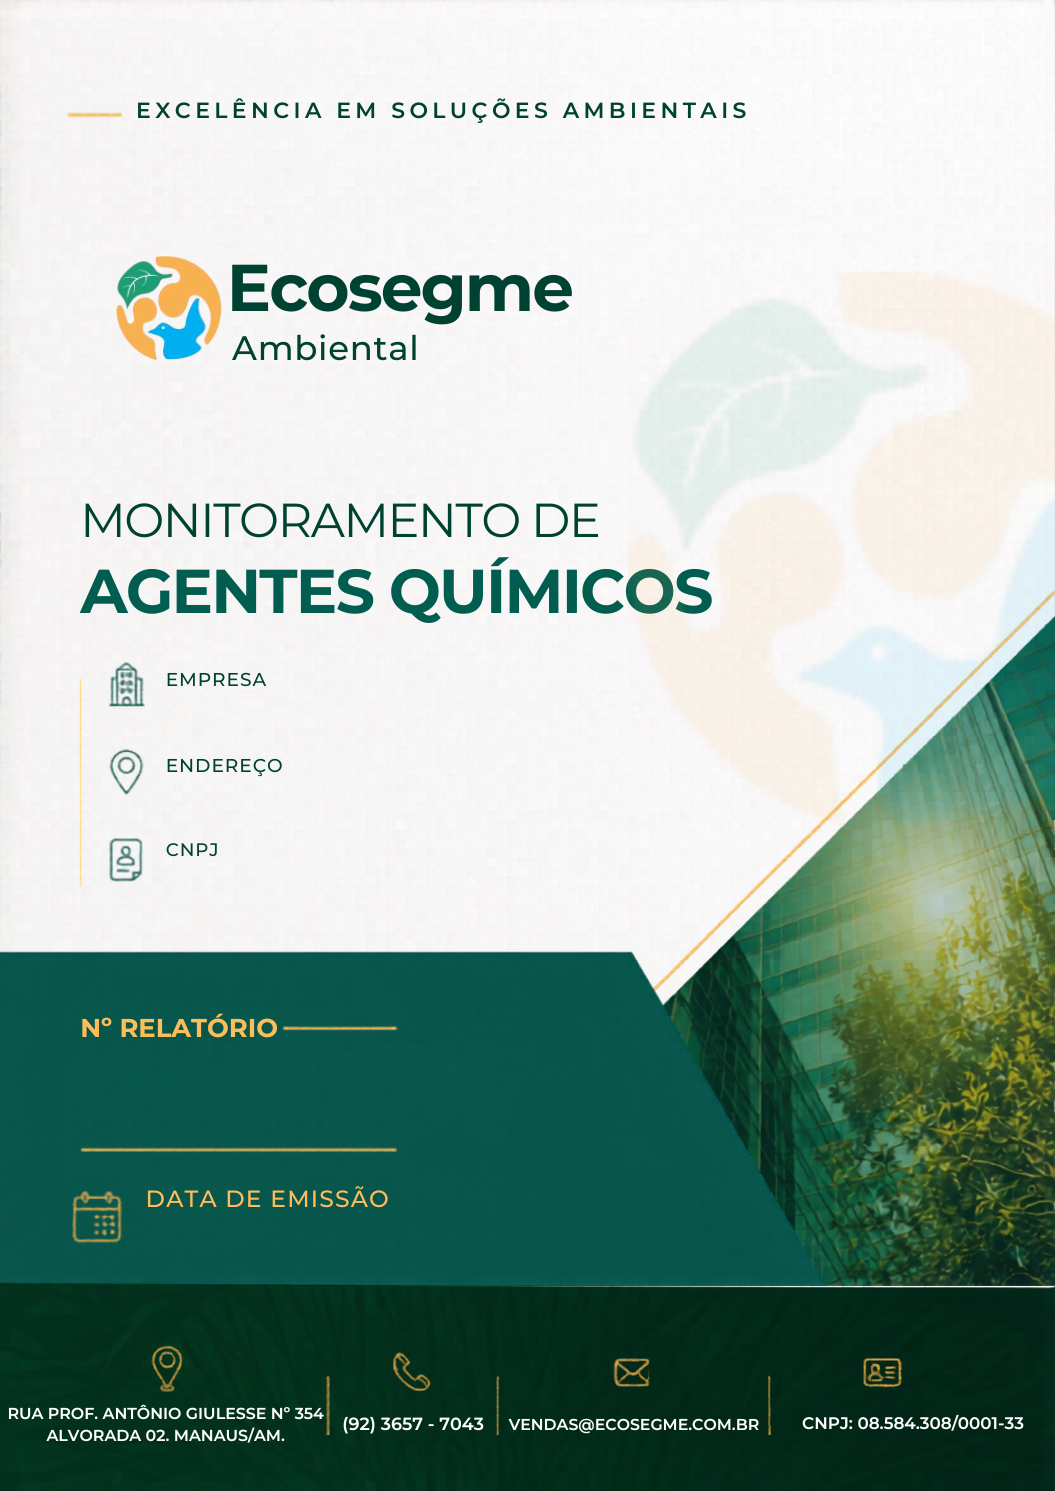
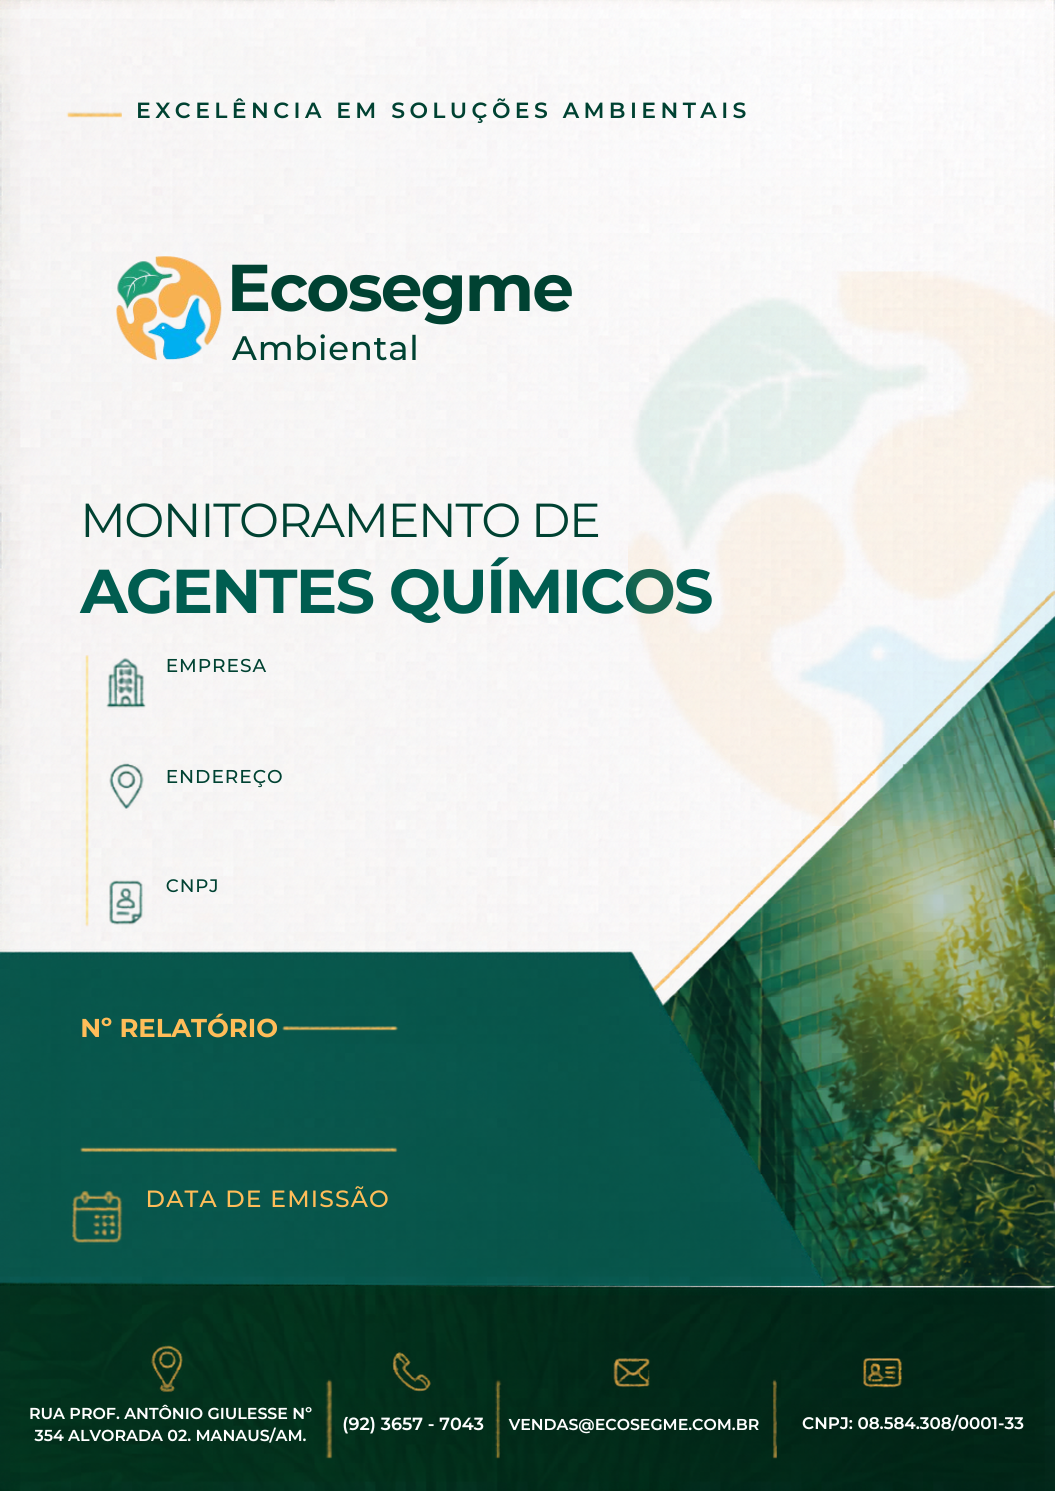
feat: atualiza imagem de capa, sugestao de vazao e coluna N.C nas abreviacoes
- Substitui capa_fundo_quimico.png pela versao mais recente.
- Campo Vazao (L/min) no calculo de volume da Conferencia agora sugere
  (via datalist) o(s) valor(es) de vazao do catalogo dos agentes
  vinculados a ficha; mostra "Vazio" quando nenhum estiver cadastrado.
  Corrige tambem o parse de vazao para aceitar virgula decimal.
- Adiciona "N.C: Nao Cadastrado" na ultima linha da tabela de
  Abreviacoes do laudo quimico, mesmo tamanho de TRI e TRS.

Changed region(s): [[0.0607, 0.4319, 0.273, 0.617], [0.0, 0.9256, 0.3336, 0.9873], [0.728, 0.9256, 0.7583, 0.9873]]

diff --git a/backend/app/templates/relatorio_quimico_pdf.html b/backend/app/templates/relatorio_quimico_pdf.html
@@ -115,41 +115,47 @@
 
   <h2>Abreviações</h2>
   <table class="abrev">
-    <colgroup><col style="width:25%"><col style="width:25%"><col style="width:25%"><col style="width:25%"></colgroup>
+    <colgroup>
+      <col style="width:8.333%"><col style="width:8.333%"><col style="width:8.333%">
+      <col style="width:8.333%"><col style="width:8.333%"><col style="width:8.333%">
+      <col style="width:8.333%"><col style="width:8.333%"><col style="width:8.333%">
+      <col style="width:8.333%"><col style="width:8.333%"><col style="width:8.333%">
+    </colgroup>
     <tbody>
       <tr>
-        <td><strong>ACGIH:</strong> American Conference of Governmental Industrial Hygienists</td>
-        <td><strong>Card:</strong> Cardíaco</td>
-        <td><strong>COHb-emia:</strong> Carboxihemoglobinemia</td>
-        <td><strong>Compr:</strong> Comprometimento</td>
+        <td colspan="3"><strong>ACGIH:</strong> American Conference of Governmental Industrial Hygienists</td>
+        <td colspan="3"><strong>Card:</strong> Cardíaco</td>
+        <td colspan="3"><strong>COHb-emia:</strong> Carboxihemoglobinemia</td>
+        <td colspan="3"><strong>Compr:</strong> Comprometimento</td>
       </tr>
       <tr>
-        <td><strong>Convul:</strong> Convulsão</td>
-        <td><strong>Dan:</strong> Dano</td>
-        <td><strong>Efe:</strong> Efeitos</td>
-        <td><strong>Form:</strong> Formação</td>
+        <td colspan="3"><strong>Convul:</strong> Convulsão</td>
+        <td colspan="3"><strong>Dan:</strong> Dano</td>
+        <td colspan="3"><strong>Efe:</strong> Efeitos</td>
+        <td colspan="3"><strong>Form:</strong> Formação</td>
       </tr>
       <tr>
-        <td><strong>Fun:</strong> Função</td>
-        <td><strong>GI:</strong> Gastrointestinal</td>
-        <td><strong>Hb:</strong> Hemoglobina</td>
-        <td><strong>Inib:</strong> Inibição</td>
+        <td colspan="3"><strong>Fun:</strong> Função</td>
+        <td colspan="3"><strong>GI:</strong> Gastrointestinal</td>
+        <td colspan="3"><strong>Hb:</strong> Hemoglobina</td>
+        <td colspan="3"><strong>Inib:</strong> Inibição</td>
       </tr>
       <tr>
-        <td><strong>Irr:</strong> Irritação</td>
-        <td><strong>MeHb-emia:</strong> Metahemoglobinemia</td>
-        <td><strong>Pulm:</strong> Pulmonar</td>
-        <td><strong>Repro:</strong> Reprodutivo</td>
+        <td colspan="3"><strong>Irr:</strong> Irritação</td>
+        <td colspan="3"><strong>MeHb-emia:</strong> Metahemoglobinemia</td>
+        <td colspan="3"><strong>Pulm:</strong> Pulmonar</td>
+        <td colspan="3"><strong>Repro:</strong> Reprodutivo</td>
       </tr>
       <tr>
-        <td><strong>Resp:</strong> Respiratório</td>
-        <td><strong>Sens:</strong> Sensibilização</td>
-        <td><strong>SNC:</strong> Sistema Nervoso Central</td>
-        <td><strong>SNP:</strong> Sistema Nervoso Periférico</td>
+        <td colspan="3"><strong>Resp:</strong> Respiratório</td>
+        <td colspan="3"><strong>Sens:</strong> Sensibilização</td>
+        <td colspan="3"><strong>SNC:</strong> Sistema Nervoso Central</td>
+        <td colspan="3"><strong>SNP:</strong> Sistema Nervoso Periférico</td>
       </tr>
       <tr>
-        <td colspan="2"><strong>TRI:</strong> Trato Respiratório inferior</td>
-        <td colspan="2"><strong>TRS:</strong> Trato respiratório superior</td>
+        <td colspan="4"><strong>TRI:</strong> Trato Respiratório inferior</td>
+        <td colspan="4"><strong>N.C:</strong> Não Cadastrado</td>
+        <td colspan="4"><strong>TRS:</strong> Trato respiratório superior</td>
       </tr>
     </tbody>
   </table>

diff --git a/frontend/src/pages/Conference.jsx b/frontend/src/pages/Conference.jsx
@@ -589,7 +589,7 @@ function calcVolume(horaInicial, horaFinal, vazao) {
   if ([h1, m1, h2, m2].some(Number.isNaN)) return null;
   let minutos = (h2 * 60 + m2) - (h1 * 60 + m1);
   if (minutos < 0) minutos += 24 * 60;
-  const v = parseFloat(vazao);
+  const v = parseFloat(String(vazao).replace(',', '.'));
   if (Number.isNaN(v)) return null;
   return Math.round(v * minutos * 100) / 100;
 }
@@ -1278,6 +1278,10 @@ function ChemicalConferenceDetail({ group, onBack, onReload }) {
                         {agents.length > 0 && (() => {
                           const vol = volumeValues[sheet.id] || { hora_inicial: '', hora_final: '', vazao: '' };
                           const volumeCalculado = calcVolume(vol.hora_inicial, vol.hora_final, vol.vazao);
+                          const vazaoOptions = [...new Set(
+                            agents.map(sa => (sa.agent?.vazao || '').trim()).filter(Boolean)
+                          )];
+                          const vazaoDatalistId = `vazao-opts-${sheet.id}`;
                           return (
                             <div style={{ marginTop: 12, padding: '10px 12px', background: '#f0fdf4', border: '1px solid #bbf7d0', borderRadius: 8 }}>
                               <div style={{ fontSize: 11, fontWeight: 700, color: '#16a34a', textTransform: 'uppercase', letterSpacing: '0.5px', marginBottom: 8 }}>
@@ -1298,9 +1302,14 @@ function ChemicalConferenceDetail({ group, onBack, onReload }) {
                                 </div>
                                 <div className="form-group" style={{ marginBottom: 0 }}>
                                   <label className="form-label">Vazão (L/min)</label>
-                                  <input type="number" step="0.001" className="form-input" value={vol.vazao}
+                                  <input type="text" inputMode="decimal" list={vazaoDatalistId} className="form-input" value={vol.vazao}
                                     onChange={e => handleVolumeChange(sheet.id, 'vazao', e.target.value)}
                                     placeholder="Ex: 1,5" style={{ width: 100 }} />
+                                  <datalist id={vazaoDatalistId}>
+                                    {vazaoOptions.length > 0
+                                      ? vazaoOptions.map(v => <option key={v} value={v} />)
+                                      : <option value="Vazio" />}
+                                  </datalist>
                                 </div>
                                 <div style={{ fontSize: 13, color: '#166534', fontWeight: 600, paddingBottom: 8 }}>
                                   Volume: {volumeCalculado !== null ? `${volumeCalculado} L` : '—'}
